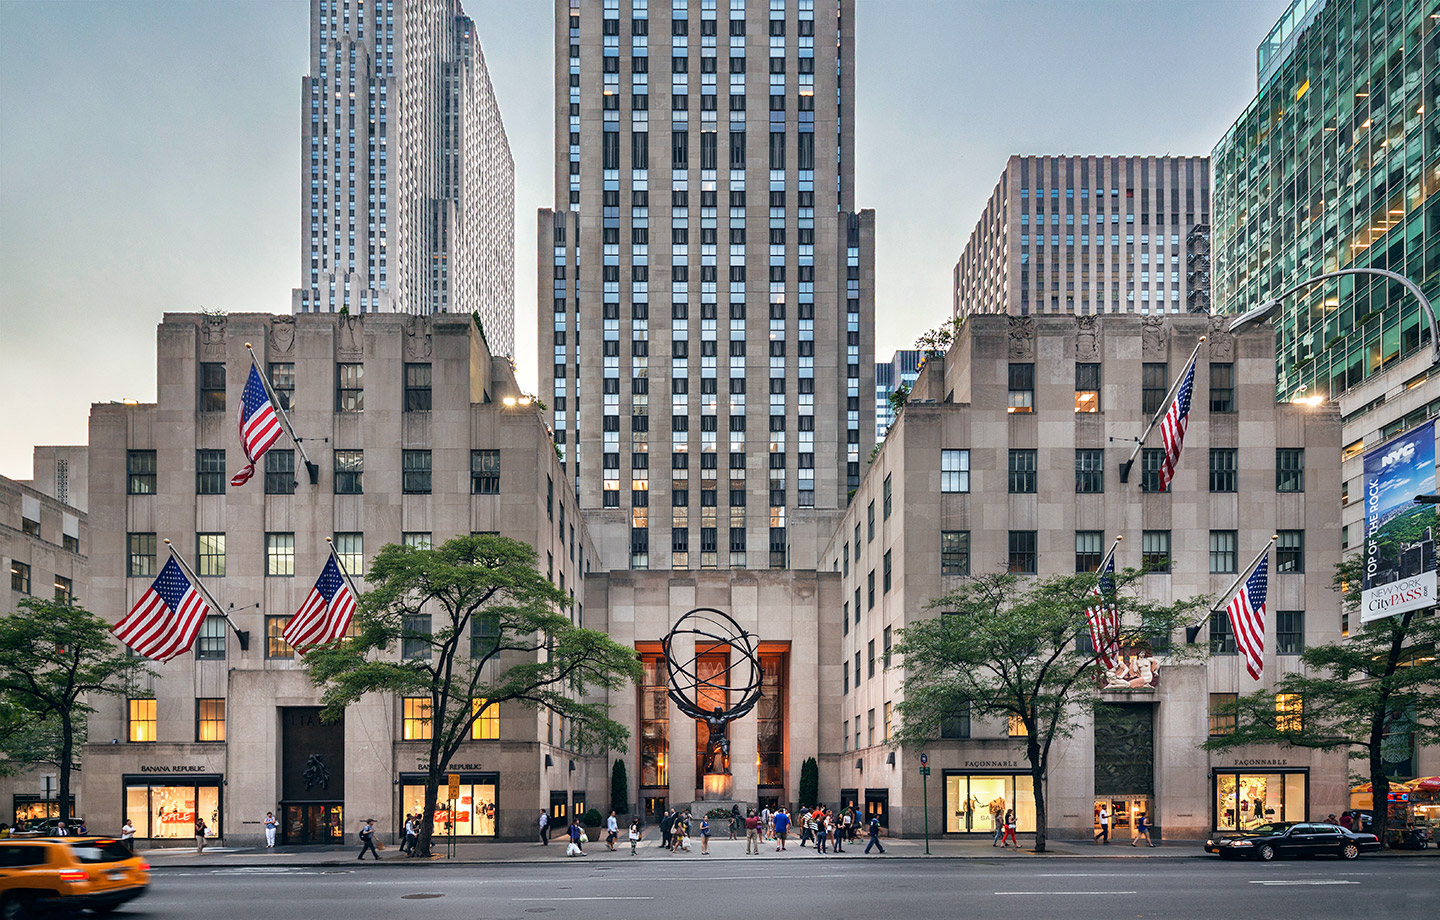
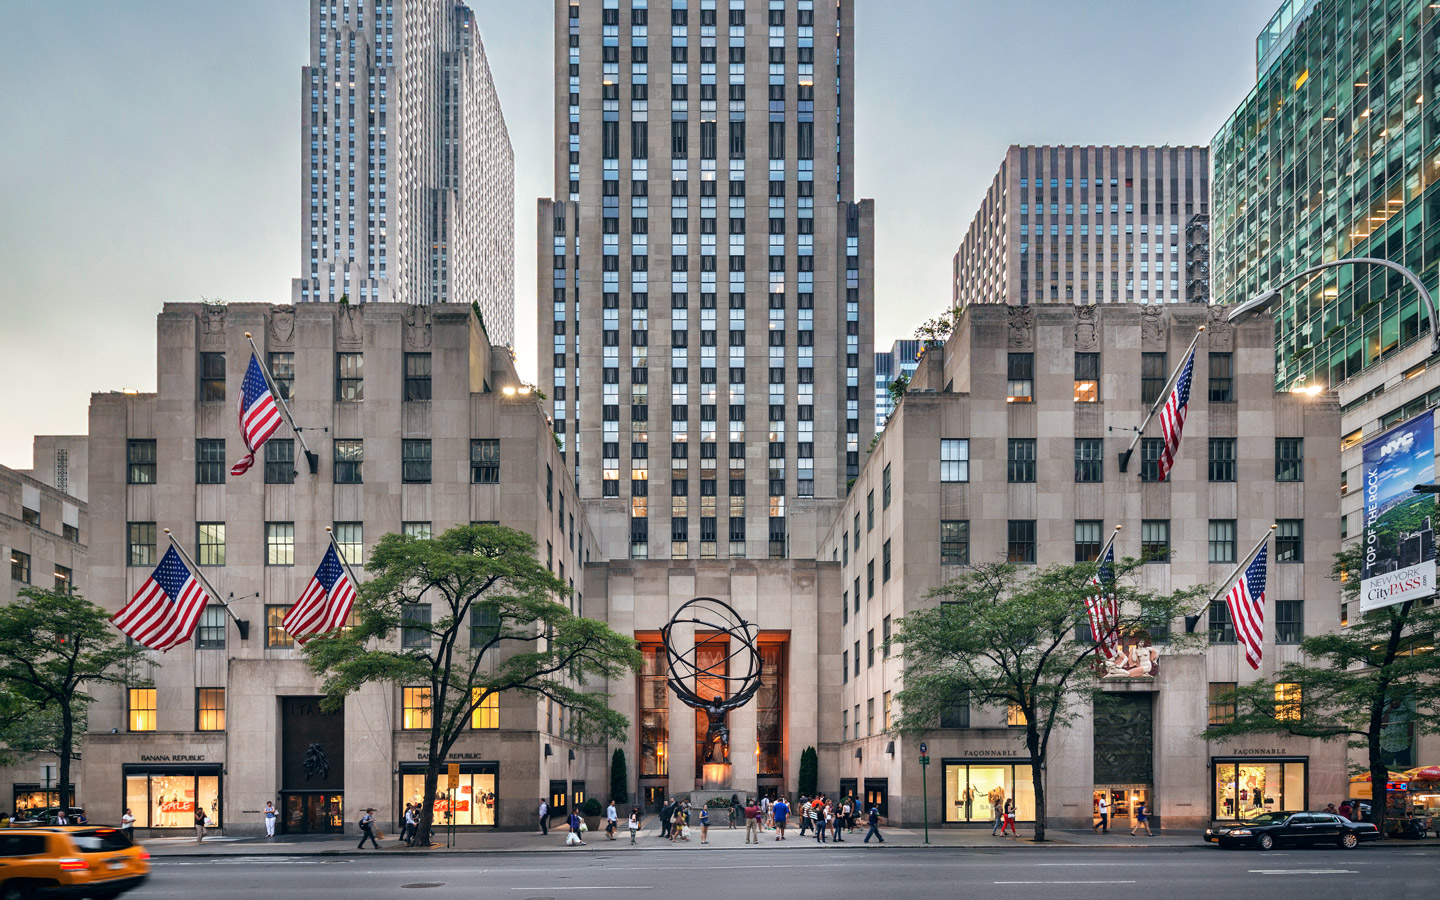
resize image and fix phone number

diff --git a/dist/index.html b/dist/index.html
@@ -124,14 +124,14 @@
           <div class="cell large-10 large-offset-1">
             <div id="hero-slideshow" class="slideshow">
               <img class="landing-logo wait-for-me" alt="studio" src="assets/img/studio-logo-white-1500x510.ab7ee1cd.png">
-              <img class="slide wait-for-me" alt="Rockefeller Center, New York City" src="assets/img/01_nyc.0ee1484e.jpg">
+              <img class="slide wait-for-me" alt="Rockefeller Center, New York City" src="assets/img/01_nyc.2df43239.jpg">
               <img class="slide" alt="Los Angeles" src="assets/img/01_la.f2cabd23.jpg">
               <img class="slide" alt="Frankfurt, Germany" src="assets/img/01_frankfurt.ba4dc76c.jpg">
               <img class="slide" alt="Washington, D.C." src="assets/img/01_dc.a445b959.jpg">
               <img class="slide" alt="Boston, Massachusetts" src="assets/img/01_boston.a614213d.jpg">
               <img class="slide" alt="Chicago, Illinois" src="assets/img/01_chicago.a564a07c.jpg">
             </div>
-            <img id="no-js-hero-image" class="wait-for-me" alt="Rockefeller Center, New York City" src="assets/img/01_nyc.0ee1484e.jpg">
+            <img id="no-js-hero-image" class="wait-for-me" alt="Rockefeller Center, New York City" src="assets/img/01_nyc.2df43239.jpg">
           </div>
         </div>
         <div class="grid-x grid-padding-x">
@@ -469,7 +469,7 @@
                 <div class="cell small-12 medium-4 large-12">
                   <h4>General</h4>
                   <p><a class="tag-info-email-address" href="mailto:info@yourstudio.com">info@yourstudio.com</a><br>
-                    <span class="InfinityNumber">2125230850</span></p>
+                    <span>212.523.0850</span></p>
                 </div>
                 <div class="cell small-12 medium-4 large-12">
                   <h4>Broker</h4>
@@ -502,6 +502,6 @@
           </div>
         </div>
       </div>
-    </footer>    <script src="assets/js/app.f170821d.js"></script>
+    </footer>    <script src="assets/js/app.1ec41920.js"></script>
   </body>
 </html>

diff --git a/dist/inquire-modal.html b/dist/inquire-modal.html
@@ -87,7 +87,7 @@
             <div class="cell small-12 medium-4 large-12">
               <h4>General</h4>
               <p><a class="tag-info-email-address" href="mailto:info@yourstudio.com">info@yourstudio.com</a><br>
-                <span class="InfinityNumber">2125230850</span></p>
+                <span>212.523.0850</span></p>
             </div>
             <div class="cell small-12 medium-4 large-12">
               <h4>Broker</h4>

diff --git a/src/partials/inquire.html b/src/partials/inquire.html
@@ -77,7 +77,7 @@
           <div class="cell small-12 medium-4 large-12">
             <h4>General</h4>
             <p><a class="tag-info-email-address" href="mailto:info@yourstudio.com">info@yourstudio.com</a><br>
-              <span class="InfinityNumber">2125230850</span></p>
+              <span>212.523.0850</span></p>
           </div>
           <div class="cell small-12 medium-4 large-12">
             <h4>Broker</h4>

diff --git a/dist/documents/fees.html b/dist/documents/fees.html
@@ -125,6 +125,6 @@
       </div>
     </footer>    
     
-    <script src="../assets/js/app.f170821d.js"></script>
+    <script src="../assets/js/app.1ec41920.js"></script>
   </body>
 </html>

diff --git a/dist/documents/internet-policy.html b/dist/documents/internet-policy.html
@@ -138,6 +138,6 @@
       </div>
     </footer>    
     
-    <script src="../assets/js/app.f170821d.js"></script>
+    <script src="../assets/js/app.1ec41920.js"></script>
   </body>
 </html>

diff --git a/dist/documents/privacy-policy.html b/dist/documents/privacy-policy.html
@@ -187,6 +187,6 @@
       </div>
     </footer>    
     
-    <script src="../assets/js/app.f170821d.js"></script>
+    <script src="../assets/js/app.1ec41920.js"></script>
   </body>
 </html>

diff --git a/dist/documents/rules-and-regulations.html b/dist/documents/rules-and-regulations.html
@@ -133,6 +133,6 @@
       </div>
     </footer>    
     
-    <script src="../assets/js/app.f170821d.js"></script>
+    <script src="../assets/js/app.1ec41920.js"></script>
   </body>
 </html>

diff --git a/dist/styleguide.html b/dist/styleguide.html
@@ -453,6 +453,6 @@
       </div>
     </div>
 
-    <script src="assets/js/app.f170821d.js"></script>
+    <script src="assets/js/app.1ec41920.js"></script>
   </body>
 </html>
